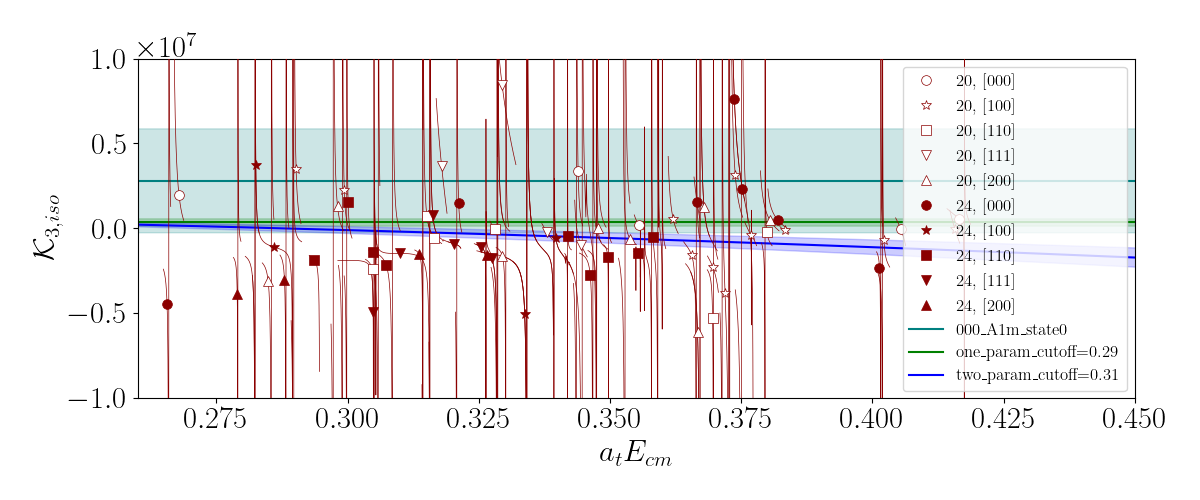
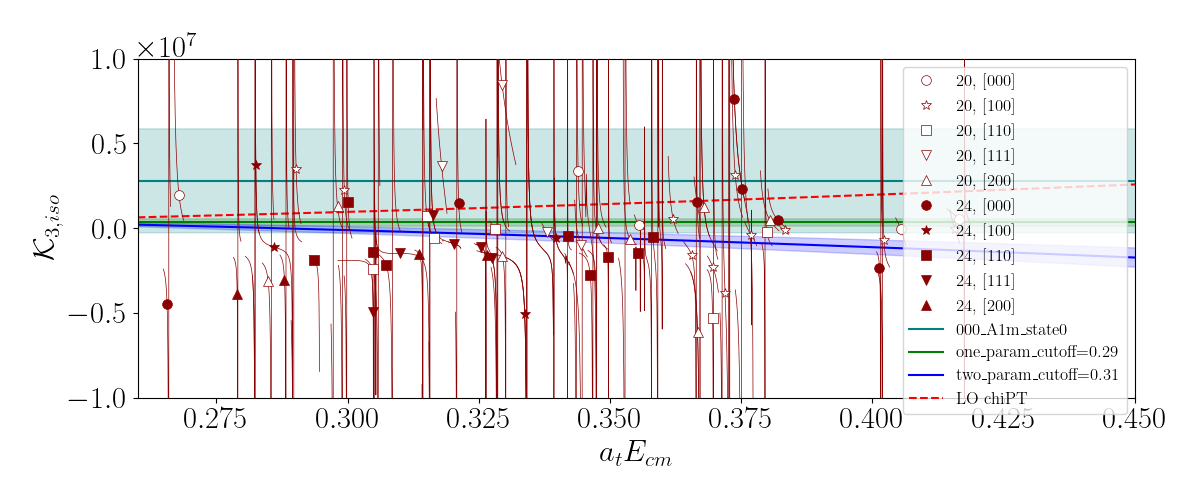
quantization somewhat done

diff --git a/test_files/QC_states_parameter_comparison/K3iso_with_latticedata_plotter.py b/test_files/QC_states_parameter_comparison/K3iso_with_latticedata_plotter.py
@@ -55,6 +55,30 @@ kkpieta=0.36667
 kkphi=0.37345
 kkkk=0.38792
 
+atinv = 5666 
+atmpi = 0.06906
+atmK = 0.09698
+Fpi = 92 
+atFpi = Fpi/atinv 
+
+def chiPT_K3iso(atmpi, atmK, atinv, atFpi, Ecm, threshold):
+    xpi = atmpi/atFpi 
+    xK = atmK/atFpi #we consider SU(3) 
+    mK = atmK*atinv 
+    mpi = atmpi*atinv 
+    #print("xpi = ",xpi,"xK = ",xK)
+    K0 = (2.0*xK**4 + 4.0*(xK**3)*xpi)/atmK**2 
+    K1 = ((xK**2)*(2.0*xK + xpi)**2 )/atmK**2 
+
+    print("K0 = ",K0)
+    print("K1 = ",K1/(threshold*threshold))
+
+
+    #K3iso = K0 + (Ecm*Ecm - threshold*threshold)*K1/(threshold*threshold) 
+
+    #return K3iso 
+
+
 def plotter_with_1K3iso():
     plt.rcParams.update({'font.size': 22,'legend.fontsize': 12})
     plt.rc('font',**{'family':'serif','serif':['Computer Modern Roman']})
@@ -187,7 +211,8 @@ def plotter_with_3K3iso():
     K3iso_twoparam = np.zeros(1000)
     K3iso_ini_twoparam = np.zeros(1000)
     K3iso_fin_twoparam = np.zeros(1000)
-   
+
+    chipt_K3iso = np.zeros(1000)
 
     Ecm_for_K3iso = np.linspace(0.26,0.5,1000)
 
@@ -199,6 +224,9 @@ def plotter_with_3K3iso():
         K3iso_twoparam[i] = K3iso_twoparam_val
         K3iso_ini_twoparam[i] = K3iso_ini_twoparam_val
         K3iso_fin_twoparam[i] = K3iso_fin_twoparam_val
+        chipt_K3iso[i] = chiPT_K3iso(atmpi, atmK, atinv, atFpi, Ecm_for_K3iso[i], kkpi )
+        print("chiPT K3iso = ",chipt_K3iso[i])
+   
 
     ax.plot(Ecm_for_K3iso,K3iso0_arr,linestyle='solid',zorder=2,color='teal',label="000_A1m_state0")
     ax.fill_between(Ecm_for_K3iso,K3iso0_ini_arr,K3iso0_fin_arr,color='teal',alpha=0.2)
@@ -208,6 +236,8 @@ def plotter_with_3K3iso():
     
     ax.plot(Ecm_for_K3iso,K3iso_twoparam,linestyle='solid',zorder=2,color='blue',label="two_param_cutoff=0.31")
     ax.fill_between(Ecm_for_K3iso,K3iso_ini_twoparam, K3iso_fin_twoparam ,color='blue',alpha=0.2)
+    
+    ax.plot(Ecm_for_K3iso,chipt_K3iso,linestyle='dashed',zorder=2,color='red',label="LO chiPT")
     
     
     ax.legend()
@@ -221,4 +251,6 @@ def plotter_with_3K3iso():
 
 #plotter_with_1K3iso()
 
-plotter_with_3K3iso()
+#plotter_with_3K3iso()
+
+chiPT_K3iso(atmpi, atmK, atinv, atFpi, 0, kkpi)
